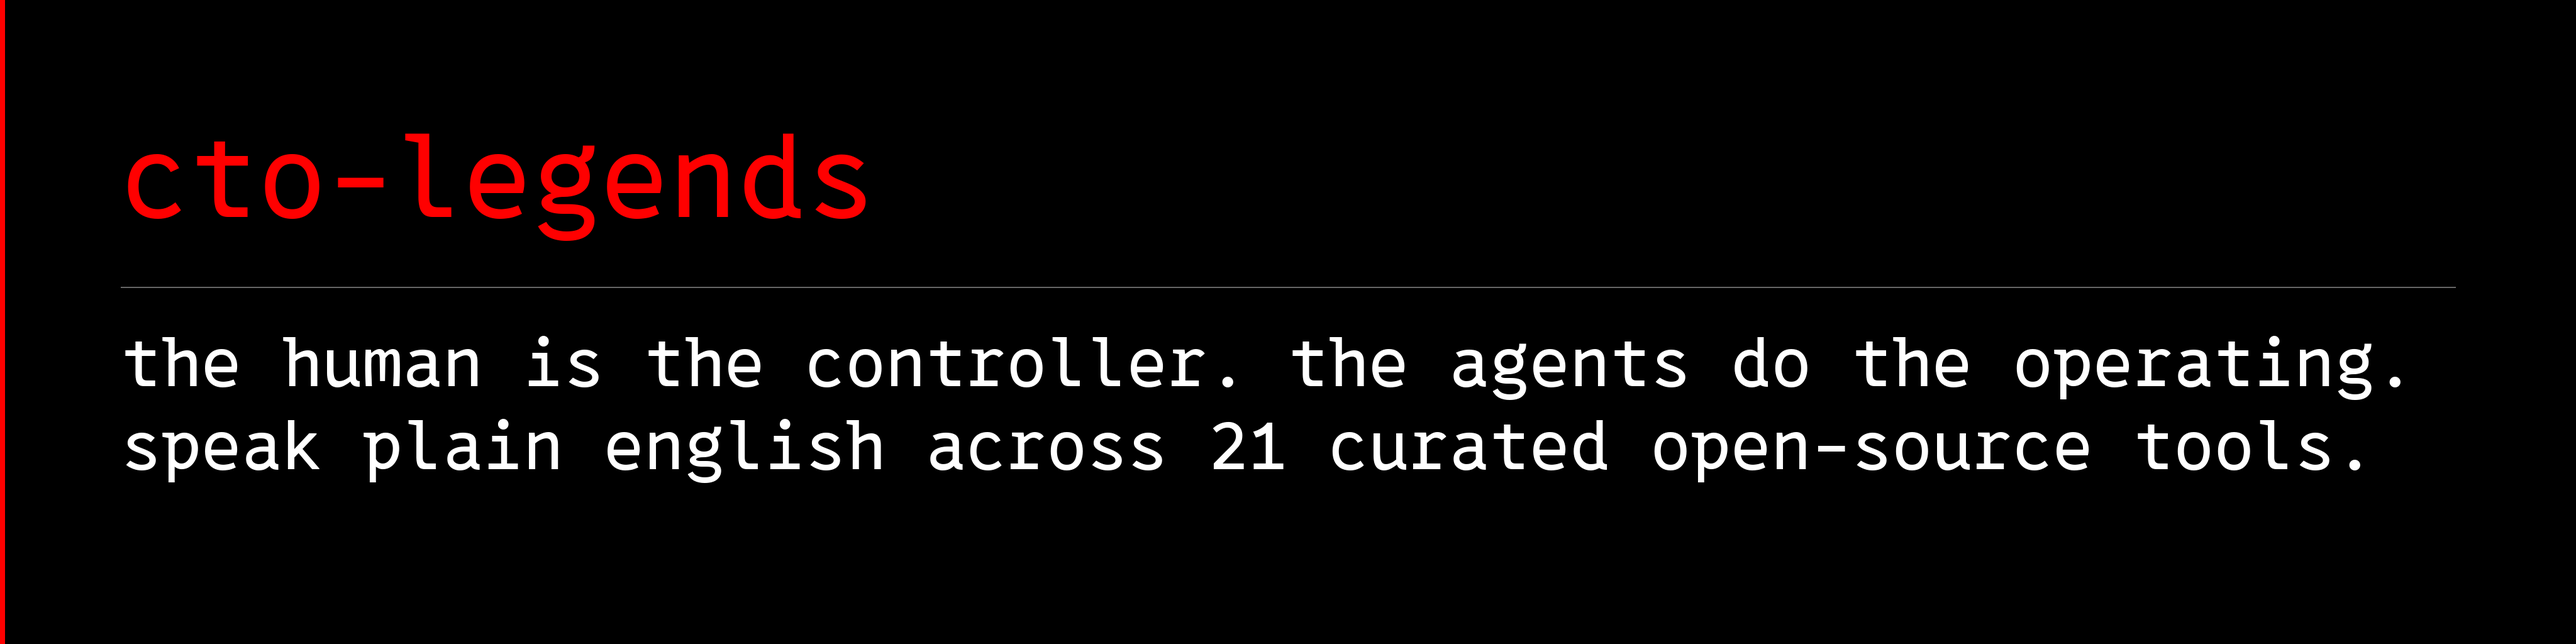
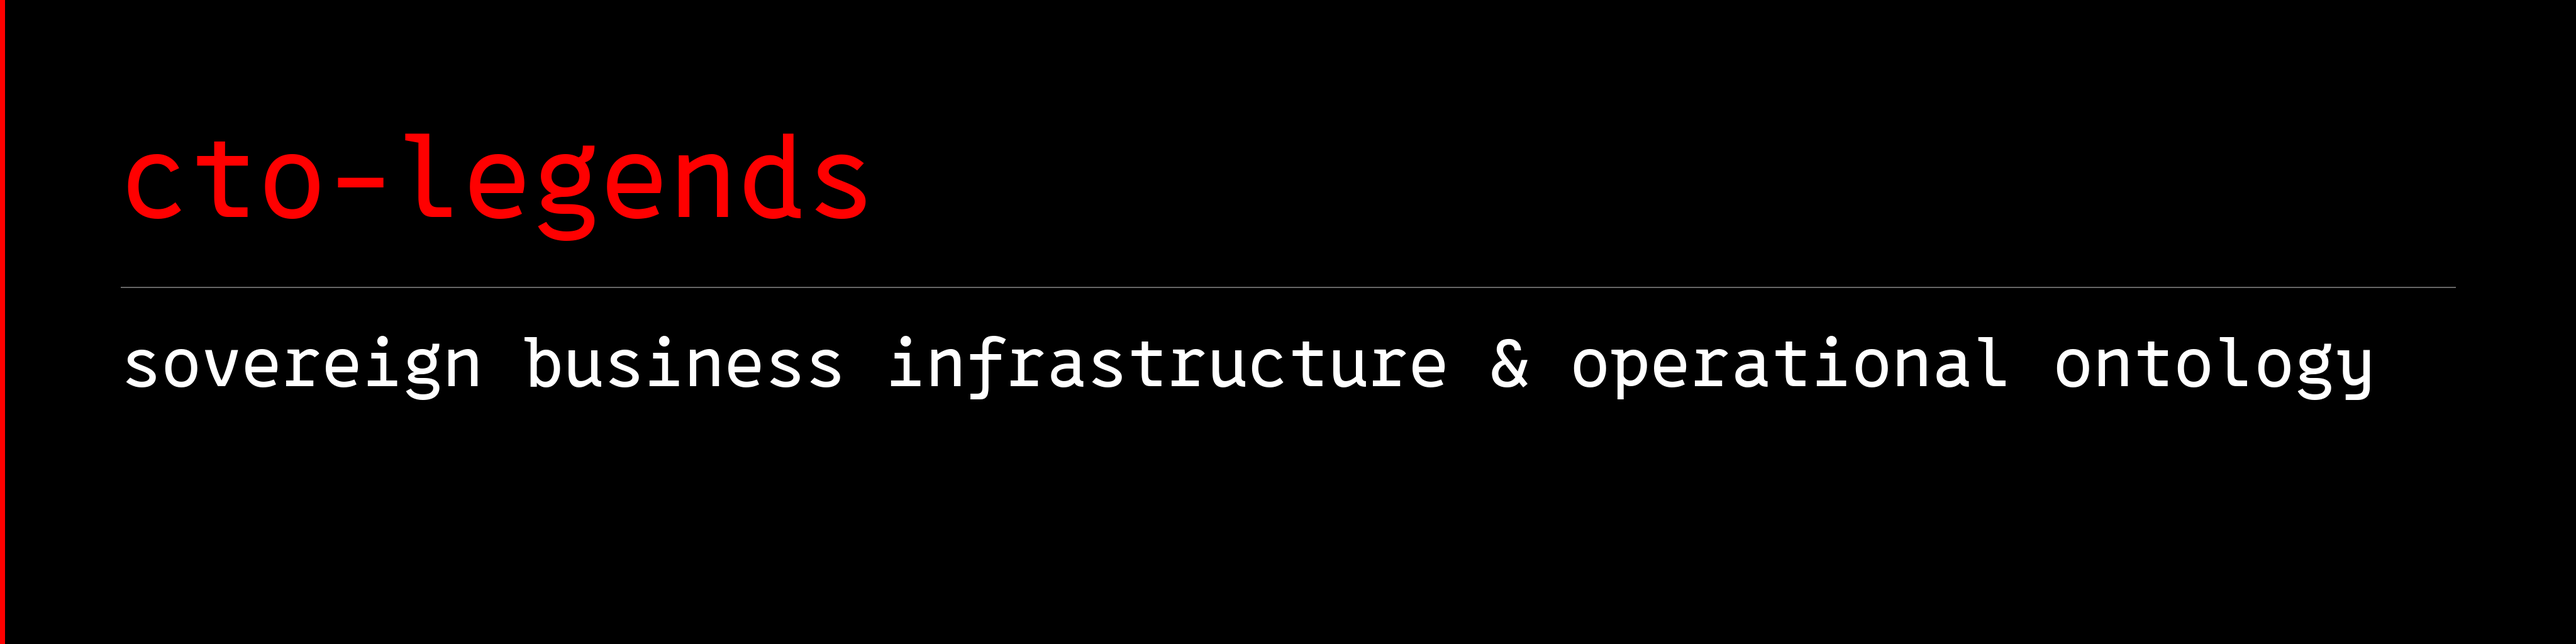
Update brand subheadline to sovereign business infrastructure & operational ontology

Changed region(s): [[0.0312, 0.6562, 0.9062, 0.75], [0.0312, 0.5312, 0.9375, 0.625]]

diff --git a/README.md b/README.md
@@ -1,6 +1,8 @@
-<p align="center"><img src="assets/banner.webp" width="100%" alt="cto-legends agent skills router: speak to your coding agent in plain english across a curated open-source stack"></p>
+<p align="center"><img src="assets/banner.webp" width="100%" alt="cto-legends: sovereign business infrastructure & operational ontology"></p>
 
 # cto-legends: agent skills that let you speak in plain english across a curated stack
+
+sovereign business infrastructure & operational ontology
 
 [![PyPI](https://img.shields.io/pypi/v/cto-legends?style=flat-square&label=pypi&labelColor=000000&color=ff0000)](https://pypi.org/project/cto-legends/)
 [![Python 3.11+](https://img.shields.io/badge/python-3.11%2B-ff0000?style=flat-square&labelColor=000000)](pyproject.toml)
